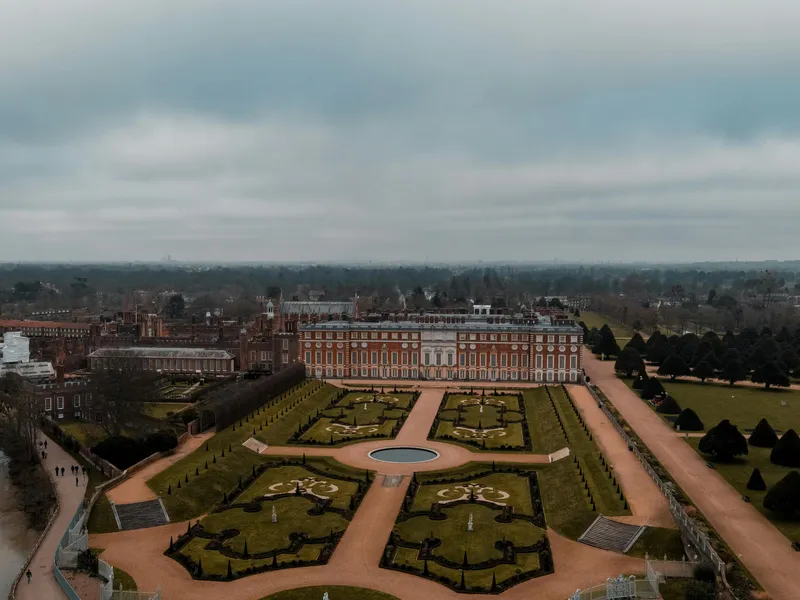
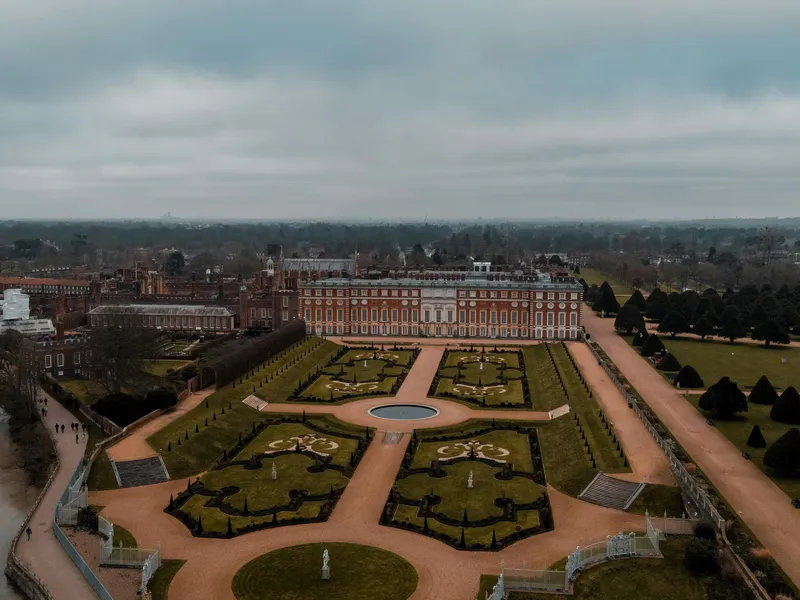
Tudors: shift crop down, less sky

diff --git a/england.html b/england.html
@@ -626,7 +626,7 @@ img{max-width:100%;display:block}
 
       <a href="/england/the-tudors" class="history-card reveal" style="transition-delay:0s">
         <div class="hc-image">
-          <img src="/img/en/the-tudors.webp?v=3" alt="The Tudors" loading="lazy" width="800" height="600" onerror="this.parentElement.style.background='linear-gradient(135deg,#1d2a47,#2d1f1f)'">
+          <img src="/img/en/the-tudors.webp?v=4" alt="The Tudors" loading="lazy" width="800" height="600" onerror="this.parentElement.style.background='linear-gradient(135deg,#1d2a47,#2d1f1f)'">
           <span class="hc-date">1485-1603</span>
         </div>
         <div class="hc-body">
